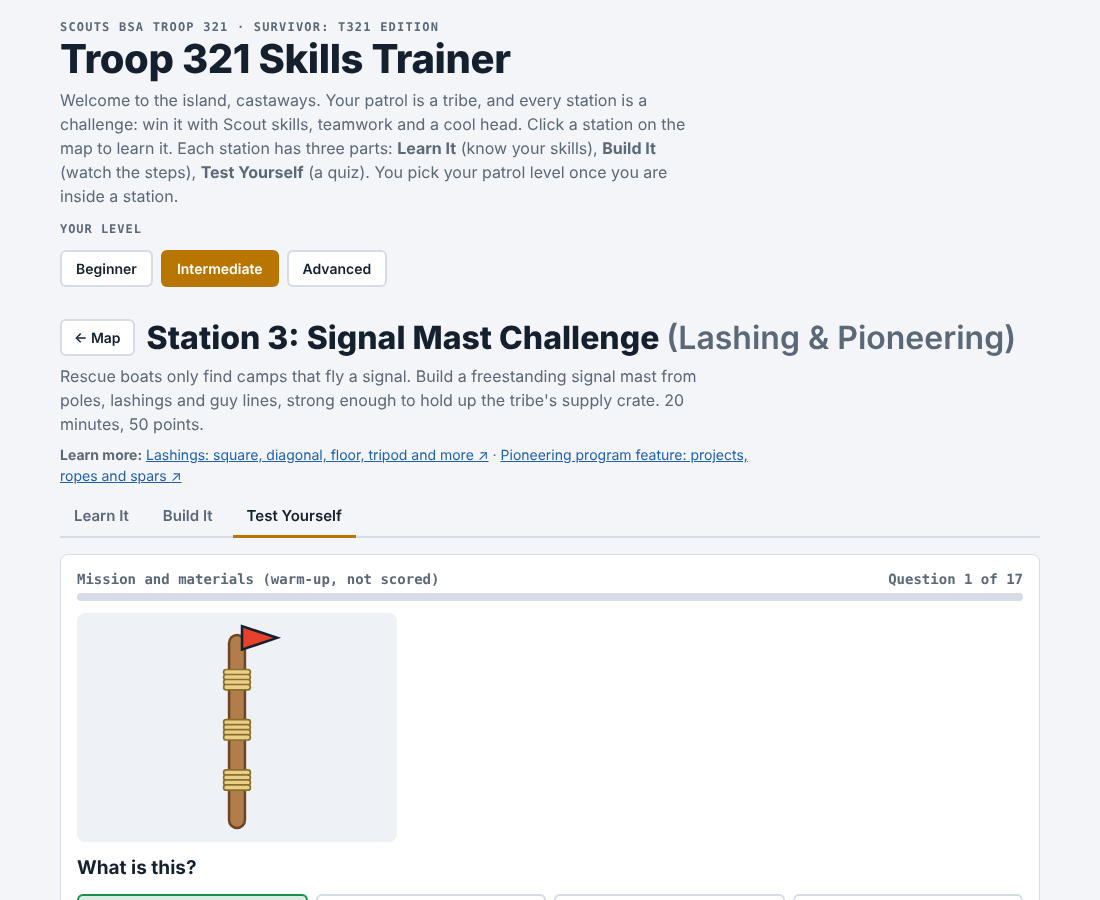
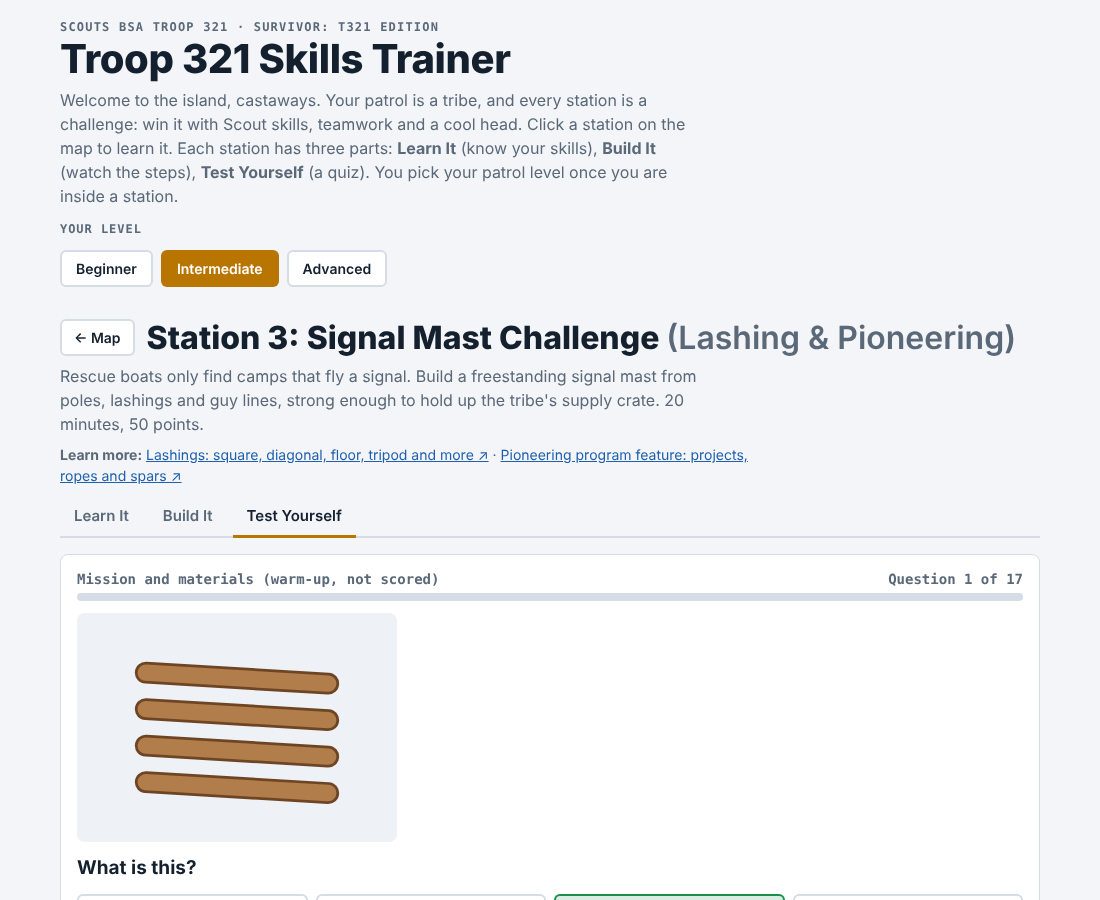
Make the boy and girl scouts clearly different
- Girl: long hair to the shoulders, bangs, a pink hair bow and lashes
- Boy: short hair and an olive Scout cap
- Larger figures in the "Your scout" picker so the difference is easy
  to see

Claude-Session: https://claude.ai/code/session_01KXBQg6WSUbtGTmjtFy61pH

Changed region(s): [[0.1236, 0.6844, 0.3091, 0.9333], [0.4945, 0.9956, 0.7109, 1.0], [0.0618, 0.9956, 0.2782, 1.0]]

diff --git a/index.html b/index.html
@@ -165,13 +165,25 @@ function drawGlv(){
 }
 /* ---------- map scout: boy or girl, remembered per device ---------- */
 let SCOUT='boy';try{const v=localStorage.getItem('cp-scout');if(v==='boy'||v==='girl')SCOUT=v}catch(e){}
-const scoutFig=k=>`<ellipse cx="0" cy="2" rx="14" ry="4" fill="#0003"/>
-   <g class="lg1"><rect x="-7" y="-14" width="6" height="14" rx="3" fill="#5b6b3a"/></g><g class="lg2"><rect x="1" y="-14" width="6" height="14" rx="3" fill="#6f7f48"/></g>
-   <rect x="-10" y="-34" width="20" height="22" rx="6" fill="#c8b48a"/><path d="M-9-33 0-24 9-33Z" fill="#1a8f4c"/><rect x="-10" y="-20" width="20" height="4" fill="#6b4a2a"/>
-   <circle cy="-44" r="10" fill="#f0c9a0"/>${k==='girl'
-    ?'<path d="M-10-45a10 10 0 0 1 20 0c-3-6-17-6-20 0Z" fill="#2a1a10"/><path d="M8-48c6 2 7 10 3 16" stroke="#2a1a10" stroke-width="4" fill="none" stroke-linecap="round"/>'
-    :'<path d="M-10.5-44.5C-11-53-5-56 0-56S11-53 10.5-44.5C9-49 6-50 3-49.5-1-51-6-50-10.5-44.5Z" fill="#2a1a10"/><path d="M-10.5-45-10-41" stroke="#2a1a10" stroke-width="2.5" stroke-linecap="round"/><path d="M10.5-45 10-41" stroke="#2a1a10" stroke-width="2.5" stroke-linecap="round"/>'}
-   <circle cx="-3.5" cy="-44" r="1.3" fill="#222"/><circle cx="3.5" cy="-44" r="1.3" fill="#222"/><path d="M-3-40q3 2 6 0" stroke="#a0522d" stroke-width="1.2" fill="none"/>`;
+const scoutFig=k=>{const g=k==='girl',SK='#f0c9a0';
+ const legs=`<ellipse cx="0" cy="2" rx="14" ry="4" fill="#0003"/><g class="lg1"><rect x="-7" y="-14" width="6" height="14" rx="3" fill="#5b6b3a"/></g><g class="lg2"><rect x="1" y="-14" width="6" height="14" rx="3" fill="#6f7f48"/></g>`;
+ const body=`<rect x="-10" y="-34" width="20" height="22" rx="6" fill="#c8b48a"/><path d="M-9-33 0-24 9-33Z" fill="#1a8f4c"/><rect x="-10" y="-20" width="20" height="4" fill="#6b4a2a"/>`;
+ const eyes=`<circle cx="-3.5" cy="-44" r="1.3" fill="#222"/><circle cx="3.5" cy="-44" r="1.3" fill="#222"/>`;
+ if(g){const H='#6b3d1e';
+  return legs
+   +`<path d="M-11.5-46C-14-32-13-26-9-24H9C13-26 14-32 11.5-46Z" fill="${H}"/>`      /* long hair behind, to the shoulders */
+   +body+`<circle cy="-44" r="10" fill="${SK}"/>`
+   +`<path d="M-10.5-43C-11-53-5-55.5 0-55.5S11-53 10.5-43C8-47 4-49 0-48.5-4-49-8-47-10.5-43Z" fill="${H}"/>`  /* bangs */
+   +`<path d="M-10.5-45C-12-38-11.5-32-10-28M10.5-45C12-38 11.5-32 10-28" stroke="${H}" stroke-width="4" fill="none" stroke-linecap="round"/>`
+   +`<g transform="translate(7.5,-52.5)"><path d="M0 0-5.5-4.5V4.5ZM0 0 5.5-4.5V4.5Z" fill="#e8508a" stroke="#b02a62" stroke-width=".6"/><circle r="1.9" fill="#b02a62"/></g>`  /* hair bow */
+   +eyes+`<path d="M-6.2-46.3l-1.4-1.5M6.2-46.3l1.4-1.5" stroke="#222" stroke-width=".9" stroke-linecap="round"/>`  /* lashes */
+   +`<path d="M-3-40q3 2 6 0" stroke="#c2306a" stroke-width="1.3" fill="none"/>`}
+ const H='#2a1a10';
+ return legs+body
+  +`<circle cx="-10" cy="-44" r="2.4" fill="${SK}"/><circle cx="10" cy="-44" r="2.4" fill="${SK}"/><circle cy="-44" r="10" fill="${SK}"/>`
+  +`<path d="M-10.5-45C-11-51-6-53.5 0-53.5S11-51 10.5-45C8-48 4-48.5 0-48-4-48.5-8-48-10.5-45Z" fill="${H}"/>`  /* short hair */
+  +`<path d="M-10-50C-10-57-5-60 0-60S10-57 10-50Z" fill="#4f5d2f" stroke="#38431f" stroke-width="1"/><path d="M-12-49.5H8C14-49.5 15-47 13-46H-12Z" fill="#38431f"/><circle cy="-56" r="1.6" fill="#c8a43a"/>`  /* Scout cap */
+  +eyes+`<path d="M-3-40q3 2 6 0" stroke="#a0522d" stroke-width="1.2" fill="none"/>`};
 /* ---------- landing map ---------- */
 /* Station order on the map. To add a station: define ST.<id> and NINFO.<id> (name, skill, res = learn-more links, ic = map icon), then add the id here.
    Ids are stable keys (saved scores use them), so never reuse or renumber an old id.
@@ -200,7 +212,7 @@ function drawMap(){
      <circle cx="-26" cy="-26" r="13" fill="#e8402a" stroke="#fff" stroke-width="3"/>${tx(-26,-21,i+1,{s:15,f:'#fff',w:800})}
      ${live?'':`<g transform="translate(24,-26)"><rect x="-10" y="-8" width="20" height="16" rx="3" fill="#6b7c8f"/><path d="M-5-8v-4a5 5 0 0 1 10 0v4" stroke="#6b7c8f" stroke-width="3" fill="none"/></g>`}
      <g class="skl"><rect x="${-I.skill.length*4.1-10}" y="42" width="${I.skill.length*8.2+20}" height="22" rx="11" fill="#14202e" opacity=".85"/>${tx(0,58,I.skill,{s:13,f:'#fff'})}</g>${stz?tx(0,84,stz,{s:16,f:'#ffd23f'}):''}</g>`}).join('');
-  $('#map').innerHTML=`<div class="scpick" role="group" aria-label="Choose your scout"><span class="lvlab">Your scout</span>${[['boy','Boy'],['girl','Girl']].map(([k,t])=>`<button data-s="${k}" aria-pressed="${k===SCOUT}"><svg viewBox="-14 -60 28 64" width="18" height="40" aria-hidden="true">${scoutFig(k)}</svg>${t}</button>`).join('')}</div><div class="world">${sv(`
+  $('#map').innerHTML=`<div class="scpick" role="group" aria-label="Choose your scout"><span class="lvlab">Your scout</span>${[['boy','Boy'],['girl','Girl']].map(([k,t])=>`<button data-s="${k}" aria-pressed="${k===SCOUT}"><svg viewBox="-16 -62 32 66" width="30" height="62" aria-hidden="true">${scoutFig(k)}</svg>${t}</button>`).join('')}</div><div class="world">${sv(`
    <defs><radialGradient id="sea" cx="50%" cy="50%" r="75%"><stop offset="0" stop-color="#4fb4e6"/><stop offset="1" stop-color="#1f74b5"/></radialGradient></defs>
    <rect width="960" height="440" fill="url(#sea)"/>
    ${[[90,30],[250,20],[520,16],[760,22],[930,300],[640,430],[300,432],[20,250],[940,40]].map(([x,y])=>`<path d="M${x-14} ${y}q7-6 14 0t14 0" fill="none" stroke="#bfe6ff" stroke-width="2.5" stroke-linecap="round" opacity=".8"/>`).join('')}
